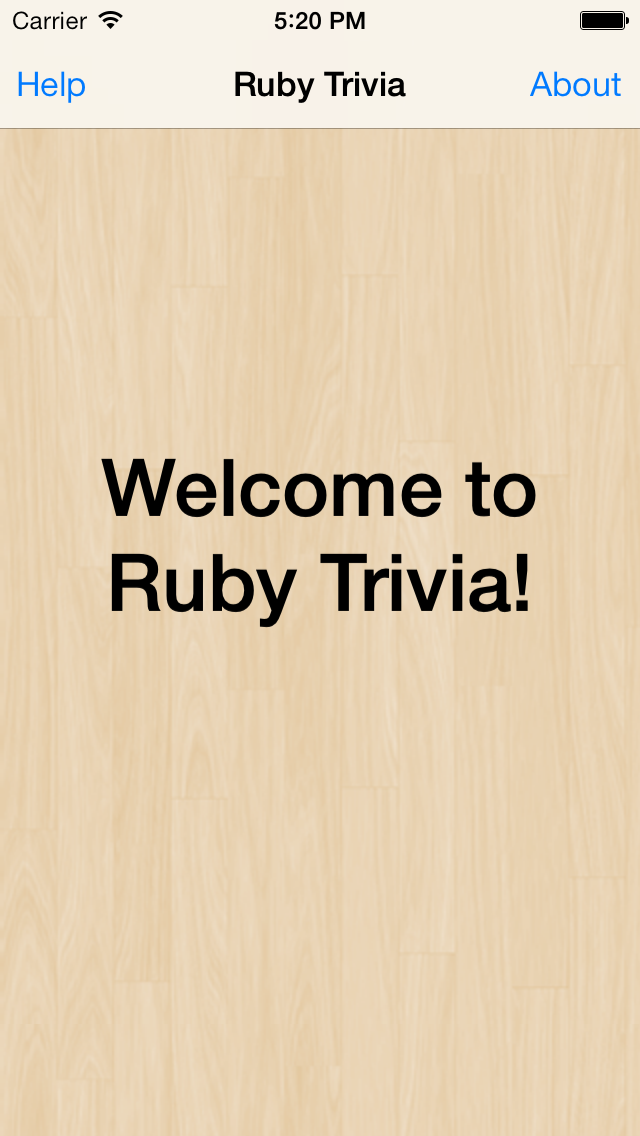
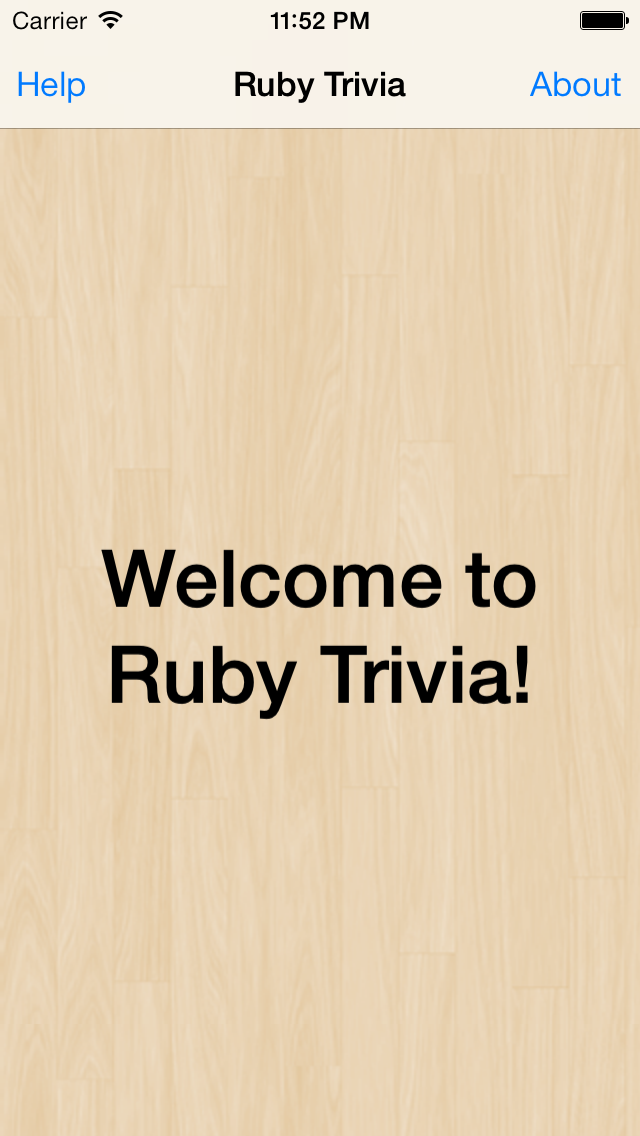
Lots of similar modifications to make rotation and iOS7 work (#5 and #6)

Changed region(s): [[0.1562, 0.4005, 0.8438, 0.647], [0.4062, 0.0, 0.5938, 0.0308]]

diff --git a/app/styles/trivia_styles.rb b/app/styles/trivia_styles.rb
@@ -4,33 +4,55 @@ Teacup::Stylesheet.new :trivia_stylesheet do
   style :my_label,
     backgroundColor: UIColor.clearColor,
     text: "Welcome to Ruby Trivia!",
-    #textColor: UIColor.whiteColor,
-    #shadowColor: UIColor.blackColor,
     numberOfLines: 0,
     textAlignment: UITextAlignmentCenter,
     font: UIFont.boldSystemFontOfSize(40),
-    width: '90%',
-    height: '90%',
-    center: ['50%', '47%']
+    portrait: {
+      width: '90%',
+      height: '85%',
+      center: ['50%', '55%']
+    },
+    landscape: {
+      width: '90%',
+      height: '85%',
+      center: ['50%', '55%']
+    }
 
-  style :swipe_help,
-    contentMode: UIViewContentModeScaleAspectFit,
-    width: '90%',
-    center: ['50%','15%']
 
-  style :tap_help,
-    contentMode: UIViewContentModeScaleAspectFit,
-    width: '90%',
-    center: ['50%', '40%']
+############## Help Screen ################
+  style :swipe_help, extends: :help_image,
+    portrait: {
+      center: ['50%','25%']
+    },
+    landscape: {
+      center: ['25%','30%']
+    }
 
-  style :previous_help,
-    contentMode: UIViewContentModeScaleAspectFit,
-    width: '90%',
-    center: ['50%', '65%']
+  style :tap_help, extends: :help_image,
+    portrait: {
+      center: ['50%','47%']
+    },
+    landscape: {
+      center: ['50%','55%']
+    }
+
+  style :previous_help, extends: :help_image,
+    portrait: {
+      center: ['50%','70%']
+    },
+    landscape: {
+      center: ['75%','80%']
+    }
 
   style :footer_help,
     contentMode: UIViewContentModeScaleAspectFit,
-    width: '100%',
-    center: ['50%','90%']      
+    portrait: {
+      width: '100%',
+      hidden: false,
+      center: ['50%','92%']
+    },
+    landscape: {
+      hidden: true
+    }
 
 end

diff --git a/app/screens/question_screen.rb b/app/screens/question_screen.rb
@@ -16,9 +16,10 @@ class QuestionScreen < PM::Screen
 
     view.on_tap do
       ap "Tapped: Show Answer"
-      answer = AnswerScreen.new(nav_bar: true, answer: @trivia.current_quip["answer"])
-      answer.modalTransitionStyle = UIModalTransitionStyleFlipHorizontal
-      open_modal answer
+      open_modal AnswerScreen.new(nav_bar: true,
+        transition_style: UIModalTransitionStyleFlipHorizontal,
+        presentation_style: UIModalPresentationFormSheet,
+        answer: @trivia.current_quip["answer"])
     end
 
     view.on_swipe :left do

diff --git a/app/styles/base_styles.rb b/app/styles/base_styles.rb
@@ -1,5 +1,15 @@
 Teacup::Stylesheet.new :base_stylesheet do
   style :trivia_view,
-    backgroundColor: 'retina_wood'.uicolor
+    backgroundColor: 'retina_wood'.uicolor,
+    landscape: true
+
+  style :help_image,
+    contentMode: UIViewContentModeScaleAspectFit,
+    portrait: {
+      width: '90%'
+    },
+    landscape: {
+      width: '40%'
+    }
  
 end

diff --git a/app/screens/modals/answer_screen.rb b/app/screens/modals/answer_screen.rb
@@ -6,6 +6,7 @@ class AnswerScreen < PM::Screen
   def answer=(answer_text)
     @view_is_set_up ||= set_up_view
     @label.code_style(answer_text)
+    ap "Answer Setup = #{answer_text}"
   end
 
   def set_up_view
